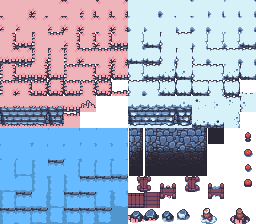
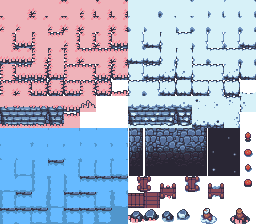
Random background tiles (wip)

Changed region(s): [[0.8125, 0.5625, 0.9375, 0.8125]]

diff --git a/src/engine/tile/LevelTileMap.ts b/src/engine/tile/LevelTileMap.ts
@@ -53,20 +53,43 @@ export default class LevelTileMap extends TileMap {
     ];
 
     public static PILLAR_PATTERN_TILE_LIST: Array<[RegExp, Array<number>]> = [
-        [/...11.1./, [0, 6, 12]],
-        [/...10.1./, [1, 7, 13]],
-        [/...00.1./, [2, 8, 14]],
-        [/...00.1./, [3, 9, 15]],
-        [/...01.1./, [4, 10, 16]]
+        [/...11.1./, [0, 7, 14]],
+        [/...10.1./, [1, 8, 15]],
+        [/...00.1./, [2, 9, 16]],
+        [/...00.1./, [3, 10, 17]],
+        [/...01.1./, [4, 11, 18]]
     ];
 
+    public static VOID_BIAS_TILE_LIST: Array<[number, number]> = [
+        [5, 0.5],
+        [6, 0.1],
+        [12, 0.1],
+        [13, 0.1],
+        [19, 0.1],
+        [20, 0.1]
+    ];
+
+    private readonly biasTileList: Array<[number, number]> = [];
     private readonly patternTileList: Array<[RegExp, Array<number>]> = [];
 
-    public constructor(tileTable: Array<Array<Tile>>, patternTileList: Array<[RegExp, Array<number>]>) {
+    public constructor(
+        tileTable: Array<Array<Tile>>,
+        biasTileList: Array<[number, number]>,
+        patternTileList: Array<[RegExp, Array<number>]>
+    ) {
         super(tileTable);
 
+        this.biasTileList = biasTileList;
         this.patternTileList = patternTileList;
     }
+
+    /**
+     * Return a random tile based with the configured bias.
+     */
+    public getRandomTileWithBias = (): Tile => {
+        const value = this.biasTileList[0][0];
+        return this.get(Math.floor(value / this.columns), value % this.columns);
+    };
 
     /**
      * Returns the tile list corresponding to the given pattern.

diff --git a/src/engine/Game.ts b/src/engine/Game.ts
@@ -84,14 +84,17 @@ export default class Game {
             this.levelLoader = new LevelLoader(
                 new LevelTileMap(
                     TileMap.createTileTable(tilesResource, 6, 8, 0, 0, 16, 16, TileType.Floor),
+                    [],
                     LevelTileMap.FLOOR_PATTERN_TILE_LIST
                 ),
                 new LevelTileMap(
                     TileMap.createTileTable(tilesResource, 6, 8, 8, 0, 16, 16, TileType.Water),
+                    [],
                     LevelTileMap.FLOOR_PATTERN_TILE_LIST
                 ),
                 new LevelTileMap(
-                    TileMap.createTileTable(tilesResource, 3, 6, 8, 8, 16, 16, TileType.Void),
+                    TileMap.createTileTable(tilesResource, 3, 7, 8, 8, 16, 16, TileType.Void),
+                    LevelTileMap.VOID_BIAS_TILE_LIST,
                     LevelTileMap.PILLAR_PATTERN_TILE_LIST
                 )
             );

diff --git a/src/engine/level/LevelLoader.ts b/src/engine/level/LevelLoader.ts
@@ -370,7 +370,7 @@ export default class LevelLoader {
                     case TileType.Void:
                         // Add void tile if not already pillar
                         if (levelMap[rowIndex][columnIndex] === undefined) {
-                            levelMap[rowIndex][columnIndex] = this.voidTileMap.get(0, 5);
+                            levelMap[rowIndex][columnIndex] = this.voidTileMap.getRandomTileWithBias();
                         }
                         break;
                 }

diff --git a/README.md b/README.md
@@ -9,11 +9,13 @@ https://www.twitch.tv/buunnie
 Based on "The Field of the Floating Islands" tiles by [Buch](https://opengameart.org/users/buch).
 
 ## Next steps
-
+ - render stars
  - render destinations
  - add box sprites
  - make box sprites pushable
- - implement wind and lose condition
+ - calculate and render status
+ - implement win and lose condition
+ - implement scenes
 
 ## Font ideas
 
